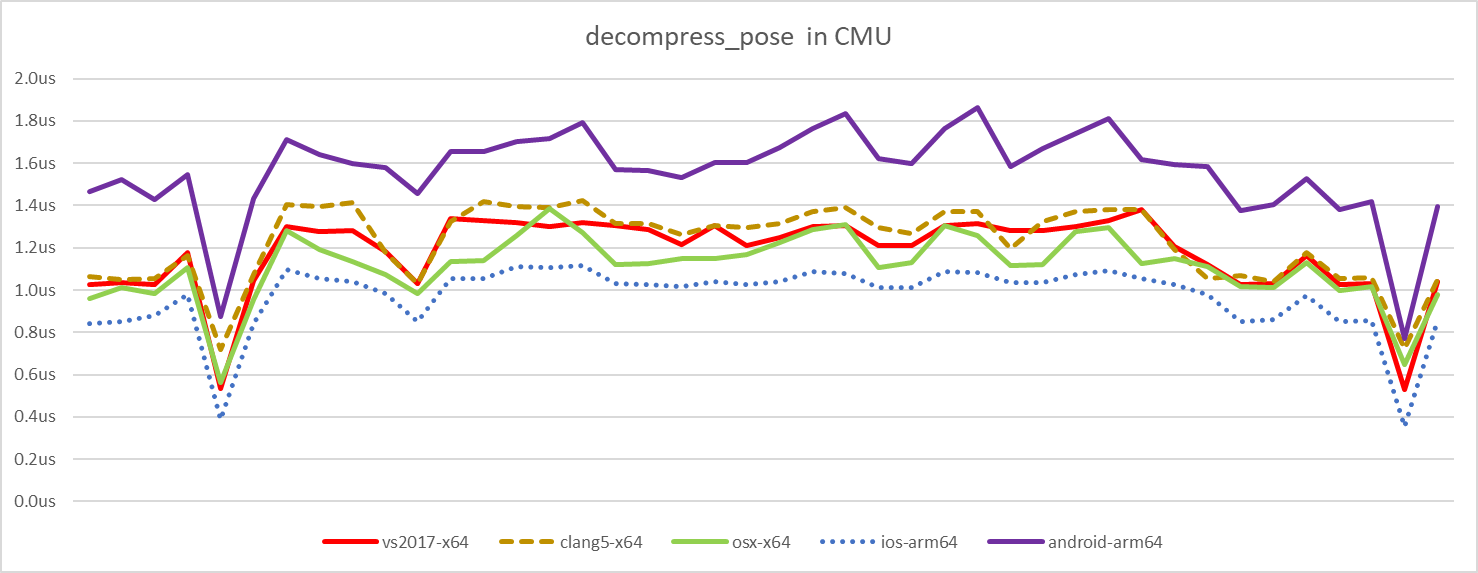
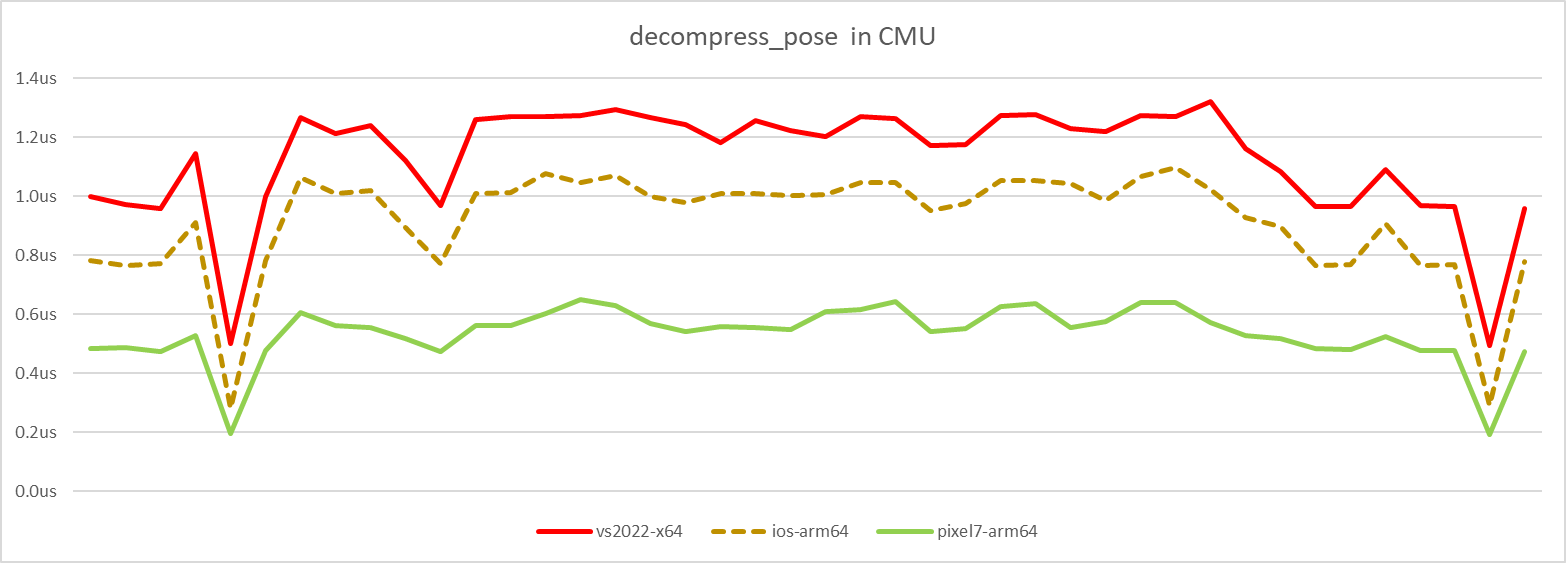
docs: update decompression stats

diff --git a/tools/graph_generation/gen_decomp_delta_stats.py b/tools/graph_generation/gen_decomp_delta_stats.py
@@ -154,7 +154,6 @@ if __name__ == "__main__":
 		bone_medians_mbsec_csv = []
 
 		for clip_name in clip_names:
-			pose_size = pose_size_per_clip[clip_name]
 			pose_cold_median_us = pose_medians_us[clip_name]
 			bone_cold_median_us = bone_medians_us[clip_name]
 

diff --git a/docs/decompression_performance.md b/docs/decompression_performance.md
@@ -11,15 +11,14 @@ Note that the data is not yet conveniently packaged.
 
 Here are the platforms we measure on:
 
-*  Desktop: Intel i7-6850K @ 3.8 GHz (for v1.2 and earlier)
-*  Desktop: Ryzen 2950X @ 3.5 GHz (for v1.3 and later)
-*  Laptop: MacBook Pro mid 2014 @ 2.6 GHz
-*  Phone: Android Pixel 3 @ 2.5 GHz
+*  Desktop: Ryzen 2950X @ 3.5 GHz
+*  Phone: Android Pixel 3 @ 2.5 GHz (for v2.0 and earlier)
+*  Phone: Android Pixel 7 @ 2.85 GHz (for v2.1 and later)
 *  Tablet: iPad Pro 10.5 inch @ 2.39 GHz
 
 We only show a few compilers and architectures to keep the graphs readable.
 
-**Unless otherwise specified, the results are from release [2.0.0](https://github.com/nfrechette/acl/releases/tag/v2.0.0)**
+**Unless otherwise specified, the results are from release [2.1.0](https://github.com/nfrechette/acl/releases/tag/v2.1.0)**
 
 ## Uniformly sampled algorithm
 
@@ -27,9 +26,9 @@ The uniformly sampled algorithm offers consistent performance regardless of the 
 
 | Clip Name    | Forward   | Backward  | Random    |
 | ------------ | --------- | --------- | --------- |
-| 104_30       | 0.978 us  | 1.010 us  | 1.014 us  |
-| Trooper_1    | 2.432 us  | 2.258 us  | 2.402 us  |
-| Trooper_Main | 30.953 us | 30.658 us | 30.776 us |
+| 104_30       | 0.910 us  | 0.961 us  | 0.960 us  |
+| Trooper_1    | 2.304 us  | 2.137 us  | 2.354 us  |
+| Trooper_Main | 28.837 us | 29.782 us | 29.918 us |
 
 As can be seen, the performance is consistent regardless of the playback direction. It also remains consistent regardless of the clip sample rate and the clip playback rate.
 
